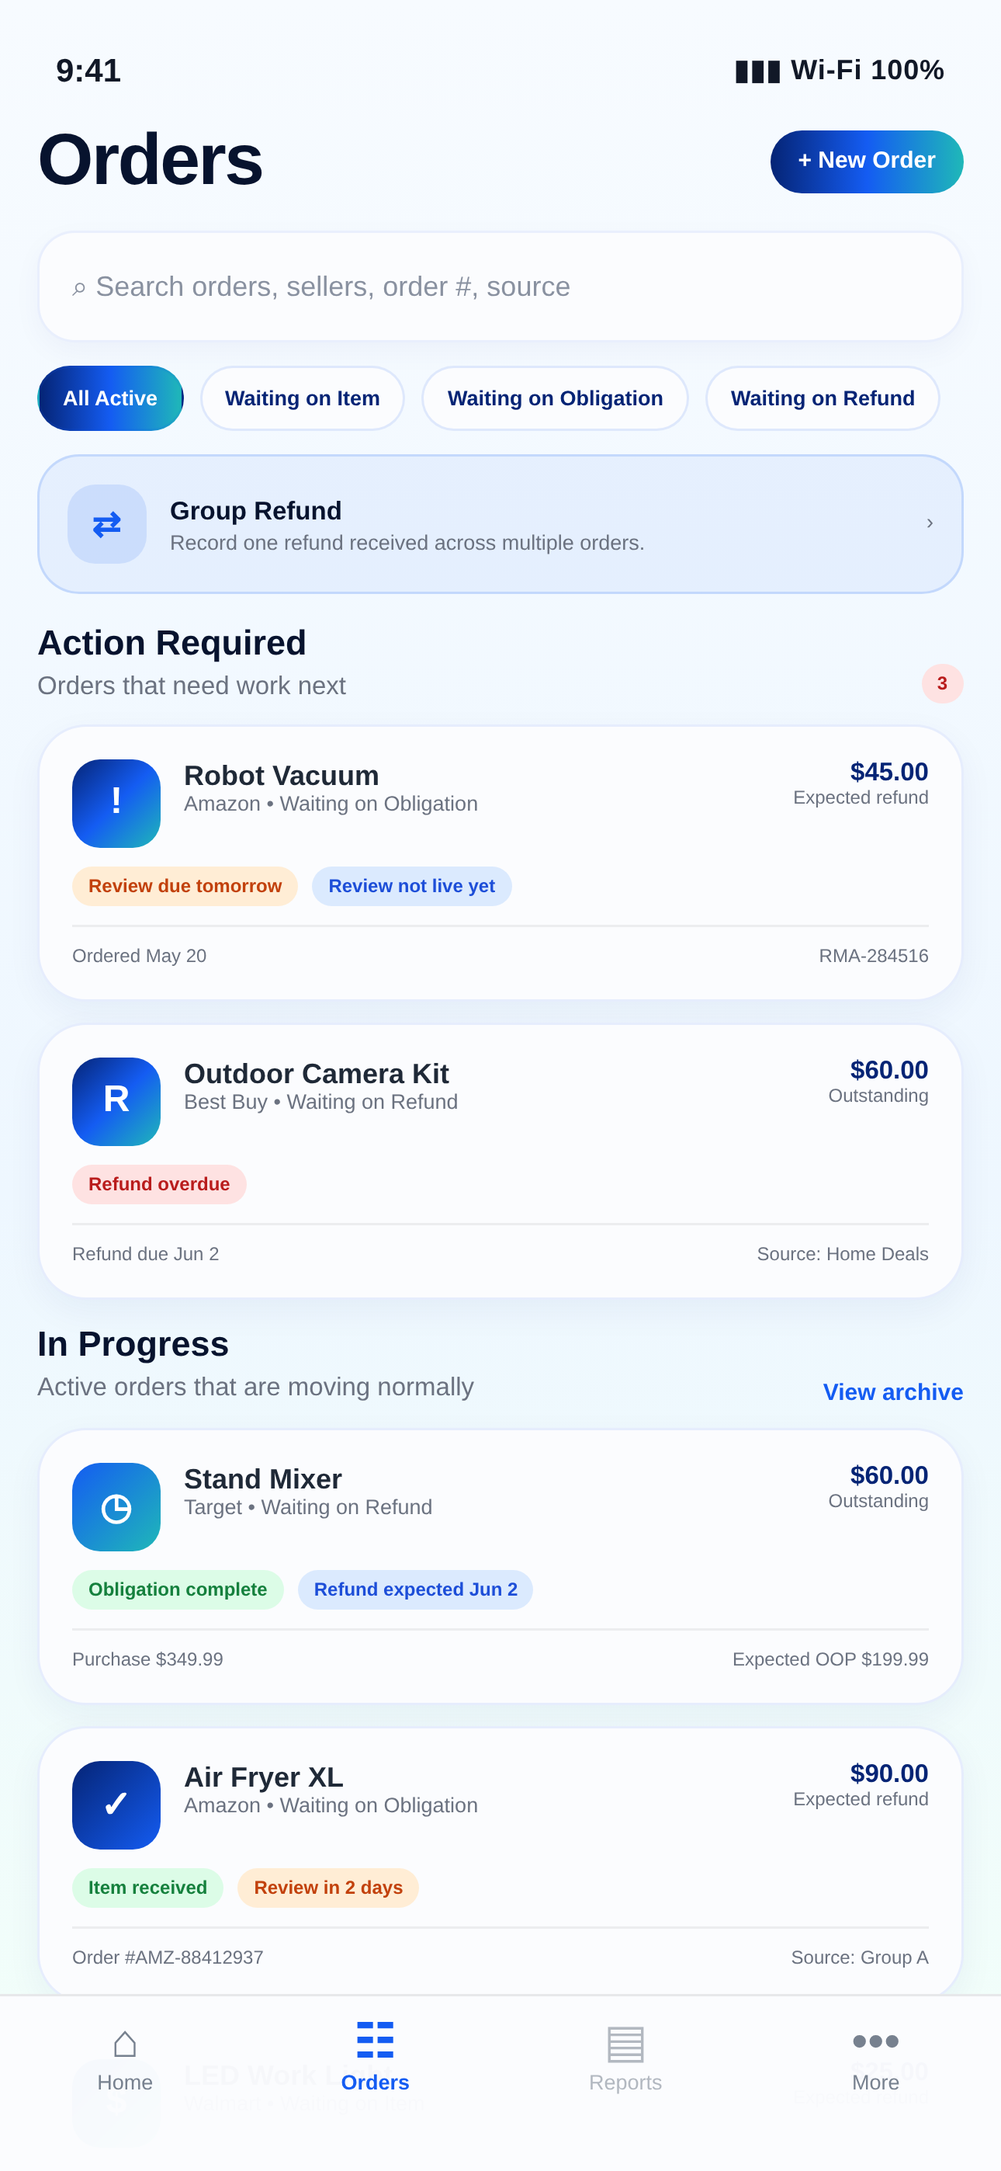
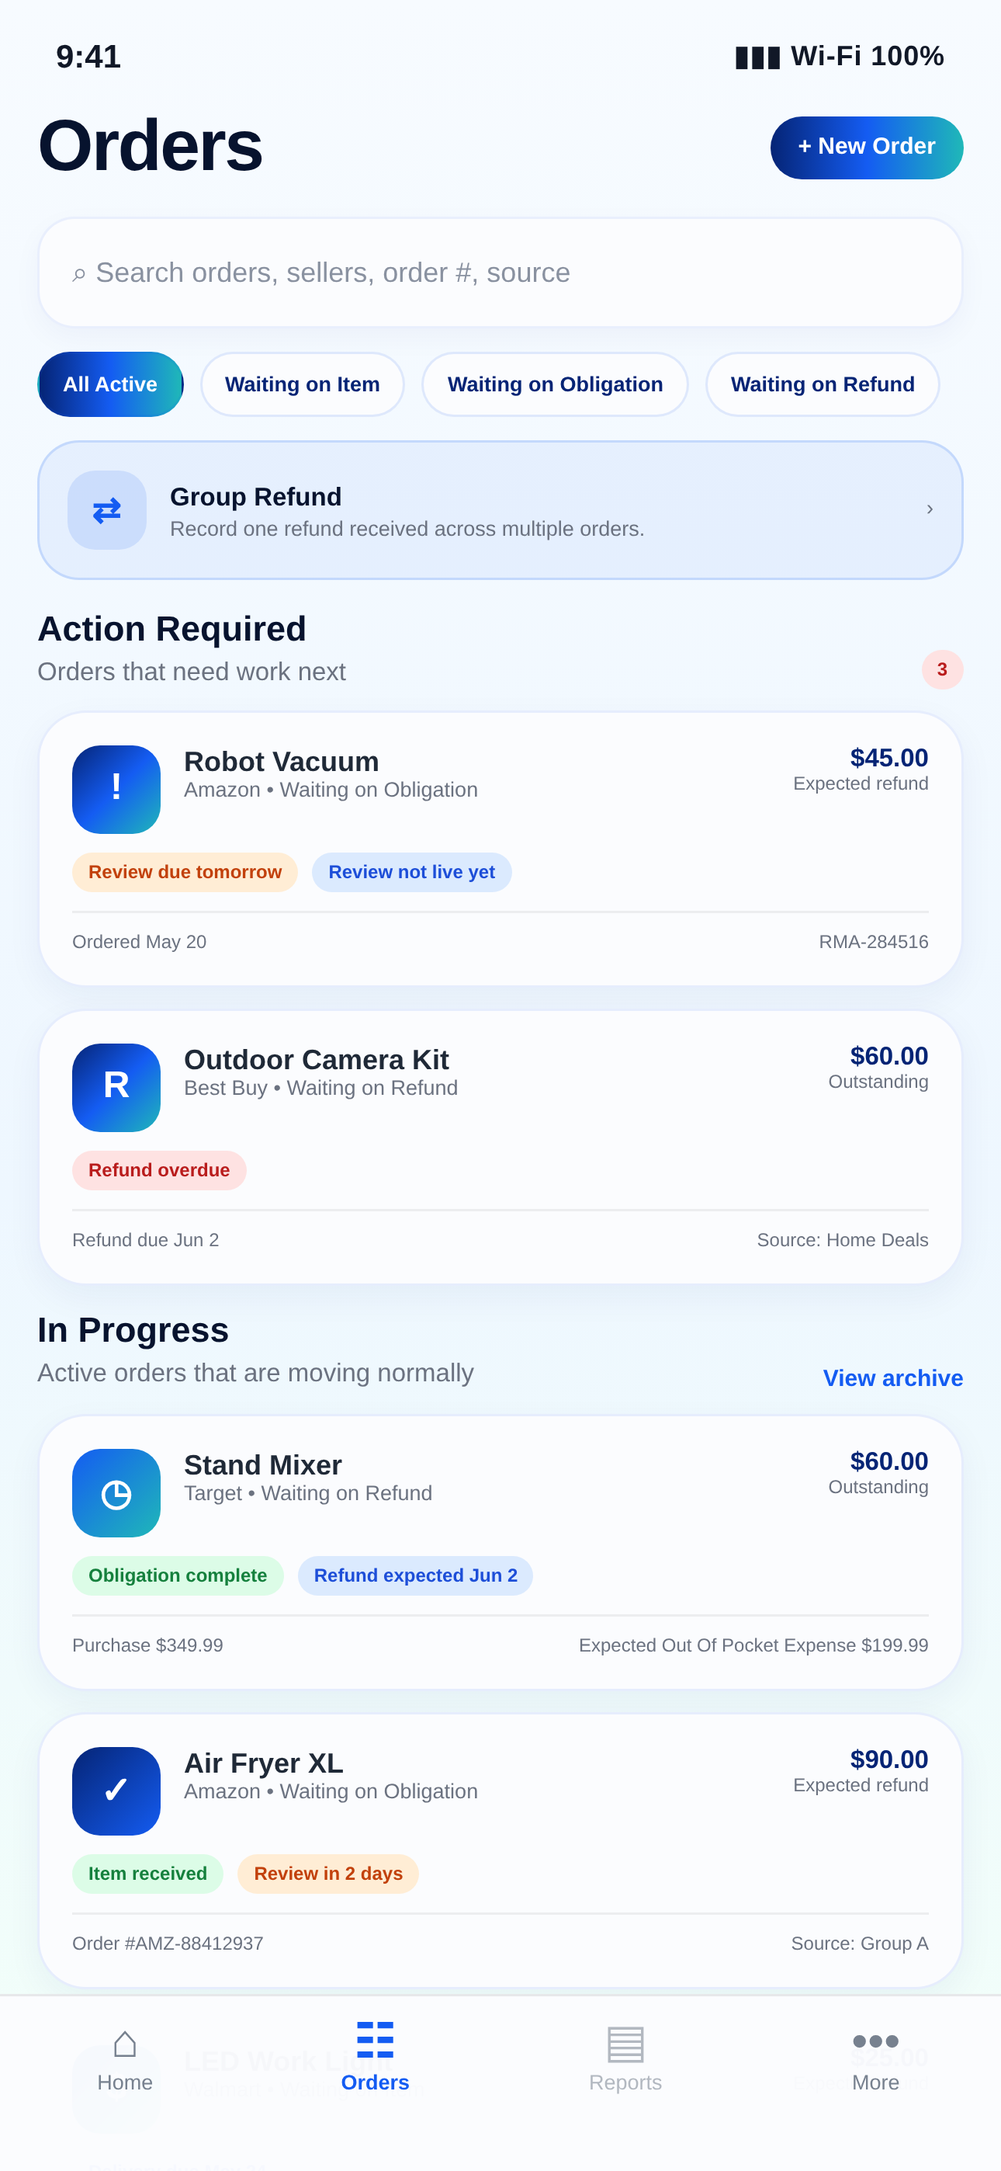
Add files via upload

diff --git a/index.html b/index.html
@@ -35,7 +35,7 @@
   <div class="kicker">Core Rebatify</div><h2>More than a refund list.</h2>
   <p class="lead compact-lead">Track the order, the required steps, the refund, and the final outcome in one place.</p>
   <div class="compact-feature-grid">
-    <article class="feature-card compact-card"><div class="icon-bubble">$</div><h3>Refund dashboard</h3><p>See pending refunds, overdue amounts, OOP, and active orders at a glance.</p></article>
+    <article class="feature-card compact-card"><div class="icon-bubble">$</div><h3>Refund dashboard</h3><p>See pending refunds, overdue amounts, Out Of Pocket Expense, and active orders at a glance.</p></article>
     <article class="feature-card compact-card"><div class="icon-bubble">✓</div><h3>Workflow tracking</h3><p>Follow delivery, obligations, review status, refund progress, and completion.</p></article>
     <article class="feature-card compact-card"><div class="icon-bubble">↩</div><h3>Flexible refunds</h3><p>Record full, partial, multiple, or grouped refund transactions.</p></article>
     <article class="feature-card compact-card"><div class="icon-bubble">!</div><h3>Action Required</h3><p>Surface orders that need attention before an important step is missed.</p></article>
@@ -50,7 +50,7 @@
     <div class="kicker" style="color:#a8f4ff">How an order moves through Rebatify</div><h2>Workflow first. Refund status second. Both matter.</h2>
     <p>A refund arriving does not automatically mean the physical/order workflow is finished. Rebatify keeps the obligation workflow and refund workflow independent, then archives an order when both sides meet the completion rules.</p>
     <div class="feature-list">
-      <div class="feature-line"><div class="check">1</div><div><strong>Add the order</strong><span>Choose the order-specific source, shopping account, refund setup, OOP rule, dates, and obligation.</span></div></div>
+      <div class="feature-line"><div class="check">1</div><div><strong>Add the order</strong><span>Choose the order-specific source, shopping account, refund setup, Out Of Pocket Expense rule, dates, and obligation.</span></div></div>
       <div class="feature-line"><div class="check">2</div><div><strong>Complete required steps</strong><span>Receive the item and finish applicable review, rating, seller-feedback, delivery-confirmation, or group-form steps.</span></div></div>
       <div class="feature-line"><div class="check">3</div><div><strong>Record refunds as they arrive</strong><span>Enter one or multiple transactions, or allocate a grouped refund across several orders.</span></div></div>
       <div class="feature-line"><div class="check">4</div><div><strong>Finalize the outcome</strong><span>Fully refunded orders archive when workflow is done; partial outcomes can be explicitly completed without leaving the shortfall in pending cash.</span></div></div>
@@ -69,7 +69,7 @@
     <h2 style="margin-top:14px">More intelligence, reminders, sharing, and continued access.</h2>
     <p>Rebatify begins with a 14-day basic-access trial. Premium-only tools are not unlocked by the trial. <span class="rebatify-plus-text">Rebatify+</span> provides continued app access after the trial along with the premium features below.</p>
     <div class="feature-list">
-      <div class="feature-line"><div class="check">✓</div><div><strong>Advanced reporting</strong><span>Financial Intelligence dashboard, date-range filtering, Orders by Platform, Total OOP Cost, Refund Aging, Source Performance, Shopping/Ordering Accounts, and Refund Methods.</span></div></div>
+      <div class="feature-line"><div class="check">✓</div><div><strong>Advanced reporting</strong><span>Financial Intelligence dashboard, date-range filtering, Orders by Platform, Total Out Of Pocket Expense, Refund Aging, Source Performance, Shopping/Ordering Accounts, and Refund Methods.</span></div></div>
       <div class="feature-line"><div class="check">✓</div><div><strong>Workflow reminders</strong><span>Customize review/rating, delivery-confirmation, and pending-review check timing.</span></div></div>
       <div class="feature-line"><div class="check">✓</div><div><strong>Notifications</strong><span>Choose alerts for review/rating reminders, delivery confirmation, pending review checks, and refund due/overdue events.</span></div></div>
       <div class="feature-line"><div class="check">✓</div><div><strong>Up to 3 users</strong><span>One <span class="rebatify-plus-text">Rebatify+</span> shared membership can include up to three users with switchable profiles.</span></div></div>
@@ -165,16 +165,16 @@
   <div class="app-preview-heading"><div class="kicker">App preview</div><h2>Built to look as organized as the workflow feels.</h2></div>
   
   <div class="screenshot-grid">
-    <article class="screen-card"><span class="tier-badge core">CORE</span><div class="phone-shot"><img src="home-preview.png" alt="Simulated Rebatify Home dashboard"></div><h3>Home dashboard</h3><p>Pending refunds, overdue money, active-order OOP, status counts, items needing attention, and recent orders.</p></article>
+    <article class="screen-card"><span class="tier-badge core">CORE</span><div class="phone-shot"><img src="home-preview.png" alt="Simulated Rebatify Home dashboard"></div><h3>Home dashboard</h3><p>Pending refunds, overdue money, active-order Out Of Pocket Expense, status counts, items needing attention, and recent orders.</p></article>
     <article class="screen-card"><span class="tier-badge core">CORE</span><div class="phone-shot"><img src="orders-preview.png" alt="Simulated Rebatify Orders screen"></div><h3>Orders & Action Center</h3><p>Search, workflow filters, action-required items, in-progress orders, ready-to-archive items, and Group Refund access.</p></article>
-    <article class="screen-card"><span class="tier-badge core">CORE</span><div class="phone-shot"><img src="order-detail-preview.png" alt="Simulated Rebatify Order Detail screen"></div><h3>Order detail</h3><p>Workflow steps and financials stay together, including expected vs. actual OOP, refund transactions, and partial-refund completion.</p></article>
-    <article class="screen-card"><span class="tier-badge plus"><span class="rebatify-plus-text">Rebatify+</span></span><div class="phone-shot"><img src="reports-plus-preview.png" alt="Simulated Rebatify Plus reports screen"></div><h3>Financial Intelligence</h3><p>Advanced metrics and report library for OOP, refund aging, source performance, shopping accounts, and refund methods.</p></article>
+    <article class="screen-card"><span class="tier-badge core">CORE</span><div class="phone-shot"><img src="order-detail-preview.png" alt="Simulated Rebatify Order Detail screen"></div><h3>Order detail</h3><p>Workflow steps and financials stay together, including expected vs. actual Out Of Pocket Expense, refund transactions, and partial-refund completion.</p></article>
+    <article class="screen-card"><span class="tier-badge plus"><span class="rebatify-plus-text">Rebatify+</span></span><div class="phone-shot"><img src="reports-plus-preview.png" alt="Simulated Rebatify Plus reports screen"></div><h3>Financial Intelligence</h3><p>Advanced metrics and report library for Out Of Pocket Expense, refund aging, source performance, shopping accounts, and refund methods.</p></article>
     <article class="screen-card"><span class="tier-badge plus"><span class="rebatify-plus-text">Rebatify+</span></span><div class="phone-shot"><img src="sharing-plus-preview.png" alt="Simulated Rebatify Plus Shared Profiles screen"></div><h3>Shared profiles</h3><p>Up to three users share one membership while each person retains separate Rebatify data and independent device protection.</p></article>
   </div>
 </div></section>
 
 <section class="section alt"><div class="wrap grid2">
-  <div class="card"><div class="kicker">Financial logic</div><h2>“Cash Still Tied Up” means money you still expect back.</h2><p>Rebatify intentionally does not calculate tied-up cash as purchase total minus refunds. It is the remaining expected refund on active orders. Expected OOP is excluded. If you complete an order with a partial refund, that remaining unrecovered shortfall is preserved as the final outcome but no longer counts as pending cash.</p></div>
+  <div class="card"><div class="kicker">Financial logic</div><h2>“Cash Still Tied Up” means money you still expect back.</h2><p>Rebatify intentionally does not calculate tied-up cash as purchase total minus refunds. It is the remaining expected refund on active orders. Expected Out Of Pocket Expense is excluded. If you complete an order with a partial refund, that remaining unrecovered shortfall is preserved as the final outcome but no longer counts as pending cash.</p></div>
   <div class="card"><div class="kicker">Security & devices</div><h2>Device protection is standard, not a <span class="rebatify-plus-text">Rebatify+</span> add-on.</h2><p>Each login maintains one primary device. Access may temporarily move to one new device within a 24-hour period; the primary device can return immediately. If the new device stays active for 48 continuous hours, it becomes the new primary device. These protections apply separately to every user in a shared <span class="rebatify-plus-text">Rebatify+</span> membership.</p></div>
 </div></section>
 </main>

diff --git a/privacy.html b/privacy.html
@@ -8,11 +8,11 @@
 <p>This Privacy Policy explains how Rebatify (“Rebatify,” “we,” “us,” or “our”) may collect, use, store, disclose, and protect information when you use the Rebatify mobile application, website, <span class="rebatify-plus-text">Rebatify+</span> features, and support services (collectively, the “Services”).</p>
 <h2>1. Information We May Collect</h2>
 <h3>Account and profile information</h3><p>We may process your name, email address, account identifiers, authentication information handled through our authentication systems, selected profile, subscription or entitlement status, and account settings.</p>
-<h3>Order, rebate, and refund information</h3><p>Information you enter may include order numbers, product names, platforms or sellers, purchase amounts, taxes, shipping, fees, discounts, expected refunds, refund transactions, transaction identifiers, expected delivery/refund dates, obligation status, order notes, rebate sources, shopping/ordering accounts, refund methods, refund-account labels, OOP rules, and archive/history information.</p>
+<h3>Order, rebate, and refund information</h3><p>Information you enter may include order numbers, product names, platforms or sellers, purchase amounts, taxes, shipping, fees, discounts, expected refunds, refund transactions, transaction identifiers, expected delivery/refund dates, obligation status, order notes, rebate sources, shopping/ordering accounts, refund methods, refund-account labels, Out Of Pocket Expense rules, and archive/history information.</p>
 <h3>Shared Rebatify+ information</h3><p>If you use Rebatify+ shared profiles, we may process shared-membership identifiers, profile membership, owner/member status, selected profile, and invite-code information needed to join or administer the shared membership. Each user’s personal profile data remains logically separate from other profiles within the shared membership.</p>
 <h3>Device and technical information</h3><p>We may process device identifiers and device-trust information needed for primary-device protection, app/version details, operating-system information, sync state, diagnostics, crash/error information, and network-related data required to operate and secure the Services.</p>
 <h3>Support communications</h3><p>If you contact support, we may process your email address, message, attachments, and the information you voluntarily provide.</p>
-<h2>2. How We Use Information</h2><ul><li>Operate accounts, profiles, order tracking, refund tracking, grouped-refund allocation, archive, and reporting.</li><li>Save changes locally and synchronize supported data to cloud storage.</li><li>Calculate expected refund, actual refund, expected OOP, actual OOP, pending refund, refund aging, and related metrics.</li><li>Operate Rebatify+ reminders, notifications, advanced reports, and shared profiles when enabled.</li><li>Maintain trusted-device rules, prevent repeated trial resets, protect accounts, and investigate misuse or security problems.</li><li>Respond to support and privacy requests and comply with applicable legal obligations.</li></ul>
+<h2>2. How We Use Information</h2><ul><li>Operate accounts, profiles, order tracking, refund tracking, grouped-refund allocation, archive, and reporting.</li><li>Save changes locally and synchronize supported data to cloud storage.</li><li>Calculate expected refund, actual refund, expected Out Of Pocket Expense, actual Out Of Pocket Expense, pending refund, refund aging, and related metrics.</li><li>Operate Rebatify+ reminders, notifications, advanced reports, and shared profiles when enabled.</li><li>Maintain trusted-device rules, prevent repeated trial resets, protect accounts, and investigate misuse or security problems.</li><li>Respond to support and privacy requests and comply with applicable legal obligations.</li></ul>
 <h2>3. Local-First Saving and Cloud Sync</h2><p>Rebatify is designed to save changes on the device first. When cloud access is available, supported changes are uploaded so authorized devices can synchronize. If cloud connectivity is unavailable, locally saved work can remain available and cloud upload may retry automatically when connectivity returns.</p>
 <h2>4. How Information May Be Shared</h2><p>We do not sell personal information in the ordinary meaning of “sell.” Information may be disclosed to service providers that help operate authentication, cloud infrastructure, app distribution/subscription services, diagnostics, or support; when you direct sharing through a Rebatify+ invite or profile feature; where required by law; or in connection with a business transaction such as a merger or asset sale, subject to applicable law.</p>
 <h2>5. Rebatify+ Shared Profiles</h2><p>A <span class="rebatify-plus-text">Rebatify+</span> shared membership may contain up to three users. Each person signs in with their own account. Switching profiles changes the visible Rebatify data context, and each profile keeps separate order and setup data. Device protection remains tied to each person’s own login account.</p>

diff --git a/terms.html b/terms.html
@@ -12,7 +12,7 @@
 <h2>4. Trial and Rebatify+</h2><p>Rebatify may provide a 14-day basic-access trial. Premium features such as advanced reporting, premium workflow reminders/notifications, and Rebatify+ shared profiles may remain locked during the basic trial. When the trial expires, Rebatify+ may be required for continued full app access. A basic CSV export may remain available from the trial-ended screen. Paid availability, prices, billing periods, renewals, and entitlement rules may be presented through the App Store or other authorized purchase interface.</p>
 <h2>5. Rebatify+ Shared Memberships</h2><p>A <span class="rebatify-plus-text">Rebatify+</span> shared membership may support up to three users. Each user signs in with their own account and retains a separate profile and separate Rebatify data context. The membership owner may invite or remove members subject to the app’s rules. Invite codes may expire. If the owner’s premium entitlement ends or the owner account is deleted, shared-membership access may end or change. Other members retain their own personal accounts and personal profile data subject to these Terms and the Privacy Policy.</p>
 <h2>6. Trusted Devices and Account Security</h2><p>Trusted-device protection is standard account functionality and is not exclusively a <span class="rebatify-plus-text">Rebatify+</span> feature. Rebatify may limit active devices, maintain a primary-device designation, allow temporary device access, and transfer primary status under the rules displayed in the app. You are responsible for safeguarding credentials and devices and for promptly acting if you suspect unauthorized access.</p>
-<h2>7. Refund Calculations, OOP, and Grouped Refunds</h2><p>Rebatify may calculate purchase total, expected refund, refunded-so-far, expected OOP, actual OOP, outstanding refund, pending refund, grouped-refund allocations, and related reporting values. Grouped refunds are allocated based on the selected orders and the actual refund amount entered. These calculations are tools for organization and depend on the accuracy of user-entered data and the software logic in effect at the time.</p>
+<h2>7. Refund Calculations, Out Of Pocket Expense, and Grouped Refunds</h2><p>Rebatify may calculate purchase total, expected refund, refunded-so-far, expected Out Of Pocket Expense, actual Out Of Pocket Expense, outstanding refund, pending refund, grouped-refund allocations, and related reporting values. Grouped refunds are allocated based on the selected orders and the actual refund amount entered. These calculations are tools for organization and depend on the accuracy of user-entered data and the software logic in effect at the time.</p>
 <h2>8. Partial Refund Completion</h2><p>Rebatify may allow a user to complete an order with a partial refund after the required workflow is complete. Doing so records the remaining unrecovered amount as part of the final historical financial outcome rather than continuing to treat it as a pending expected refund. This feature does not constitute a waiver or settlement with any third-party rebate provider.</p>
 <h2>9. Local Saving, Cloud Sync, and Availability</h2><p>The app may save changes locally before synchronizing supported data to cloud systems. Sync may be delayed by connectivity, service availability, device state, or other conditions. We do not guarantee uninterrupted or instantaneous synchronization. You remain responsible for reviewing important records.</p>
 <h2>10. Account Deletion</h2><p>Rebatify provides an in-app account-deletion flow. Account deletion is destructive and may permanently remove your personal Rebatify profile, orders, archive, and setup information. Certain limited records, including trial-eligibility or security records, may be retained where reasonably necessary to prevent abuse or comply with law. Deletion by a shared-membership owner may end the shared group without deleting other members’ personal profiles.</p>

diff --git a/support.html b/support.html
@@ -16,9 +16,9 @@
 
     <details open><summary>How do I delete my Rebatify account?</summary><p>Account deletion is built directly into Rebatify. Open <strong>More → Account &amp; Security</strong> and tap <strong>Delete Rebatify Account</strong>. The confirmation screen requires your current password and asks you to type <strong>DELETE</strong> before the destructive action is enabled. Deletion permanently removes your personal Rebatify profile, orders, archive, setup information, and account data. Rebatify may retain trial-eligibility records so deleting an account cannot restart the 14-day trial. If you own a shared Rebatify+ group, deleting your account ends that shared group, but other members keep their own personal profiles and data.</p></details>
 
-    <details><summary>What does “Cash Still Tied Up” / pending refunds mean?</summary><p>It is the refund money Rebatify still actively expects to recover from <strong>active orders</strong>. It intentionally excludes expected out-of-pocket cost. If an order is completed with a partial refund, the unrecovered amount remains part of that order’s historical actual-OOP result, but it stops counting as pending cash.</p></details>
+    <details><summary>What does “Cash Still Tied Up” / pending refunds mean?</summary><p>It is the refund money Rebatify still actively expects to recover from <strong>active orders</strong>. It intentionally excludes expected out-of-pocket cost. If an order is completed with a partial refund, the unrecovered amount remains part of that order’s historical actual-Out Of Pocket Expense result, but it stops counting as pending cash.</p></details>
 
-    <details><summary>Can I record more than one refund on the same order?</summary><p>Yes. Refunds are stored as transactions, so you can record additional refunds later. The order’s “Refunded So Far,” “Actual OOP,” and “Outstanding Refund” update from the recorded refund transactions.</p></details>
+    <details><summary>Can I record more than one refund on the same order?</summary><p>Yes. Refunds are stored as transactions, so you can record additional refunds later. The order’s “Refunded So Far,” “Actual Out Of Pocket Expense,” and “Outstanding Refund” update from the recorded refund transactions.</p></details>
 
     <details><summary>What happens when I receive only part of the expected refund?</summary><p>You can record the partial amount and continue waiting for additional refund transactions. If you decide the remaining amount will not be recovered, Rebatify can complete the order with a partial refund <strong>after the required order workflow is complete</strong>. That action approves the financial shortfall only—it does not bypass missing delivery, form, review, rating, seller-feedback, or other applicable workflow steps.</p></details>
 
